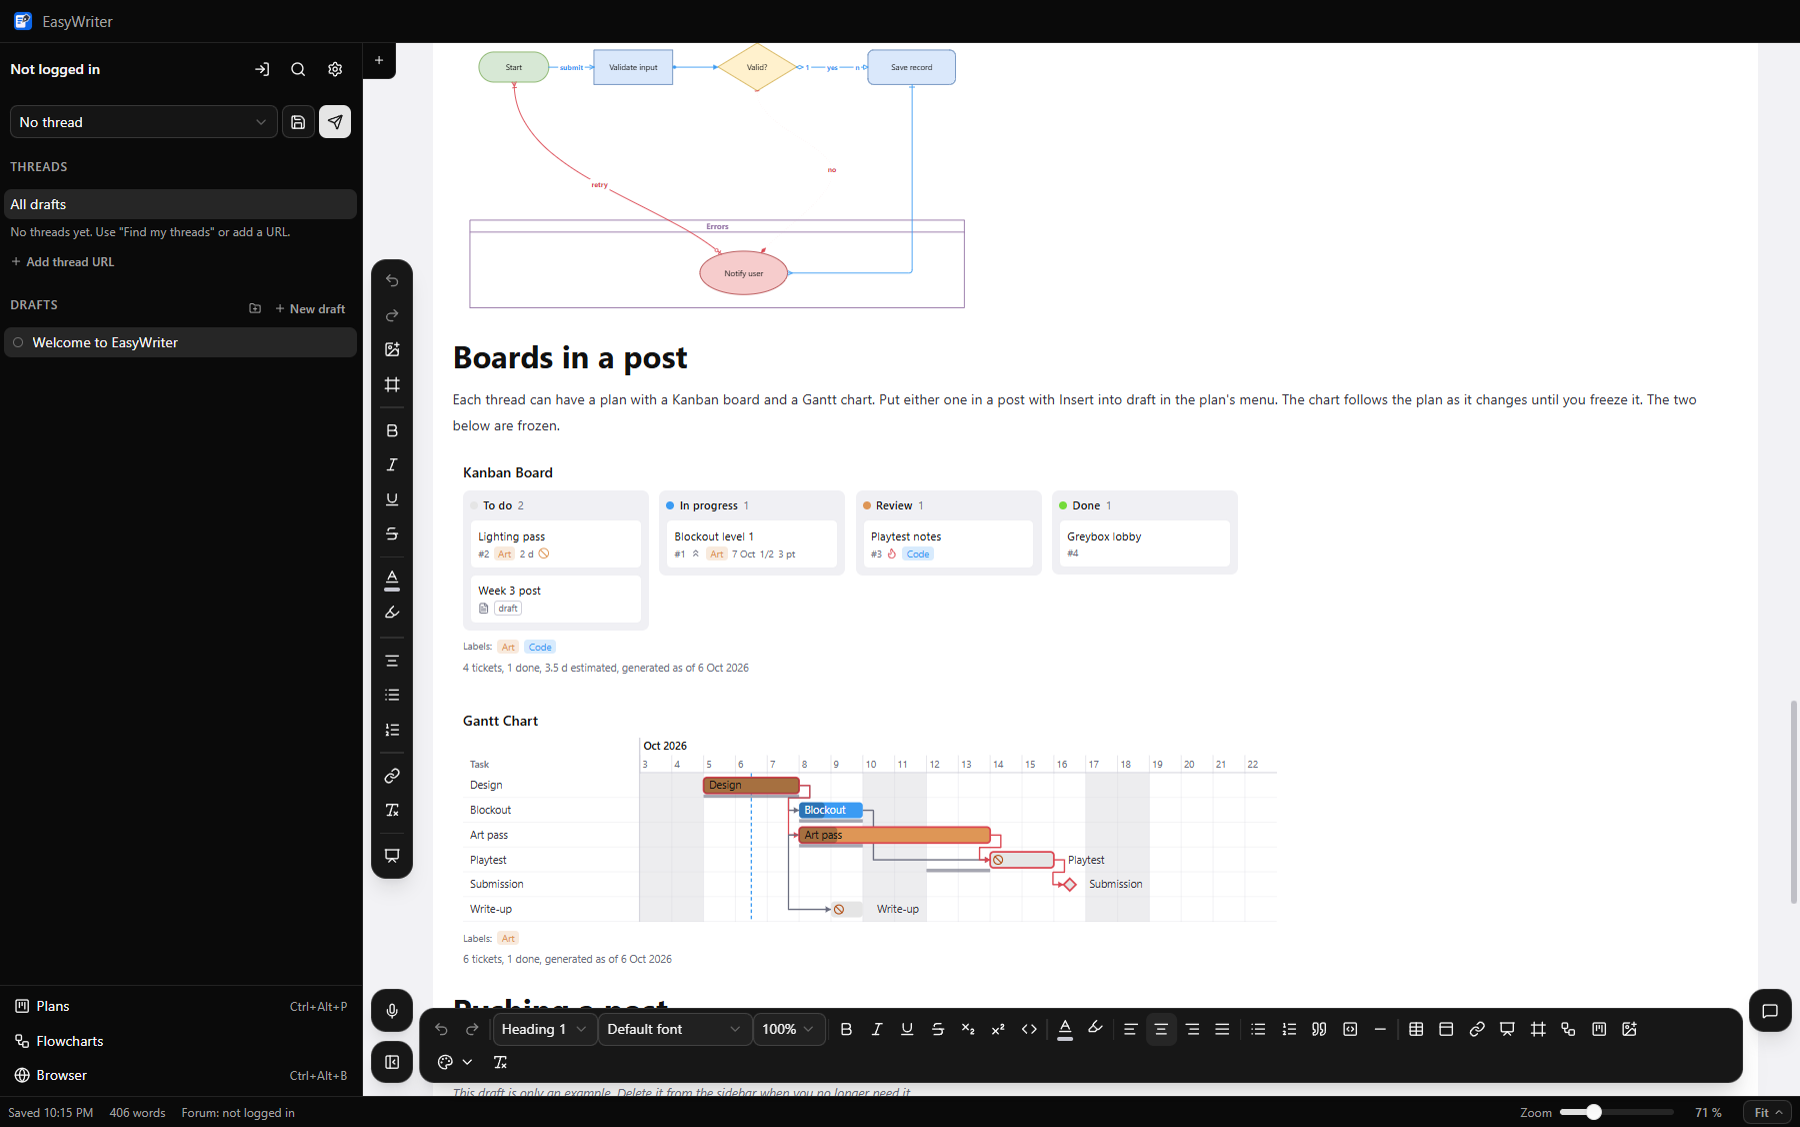
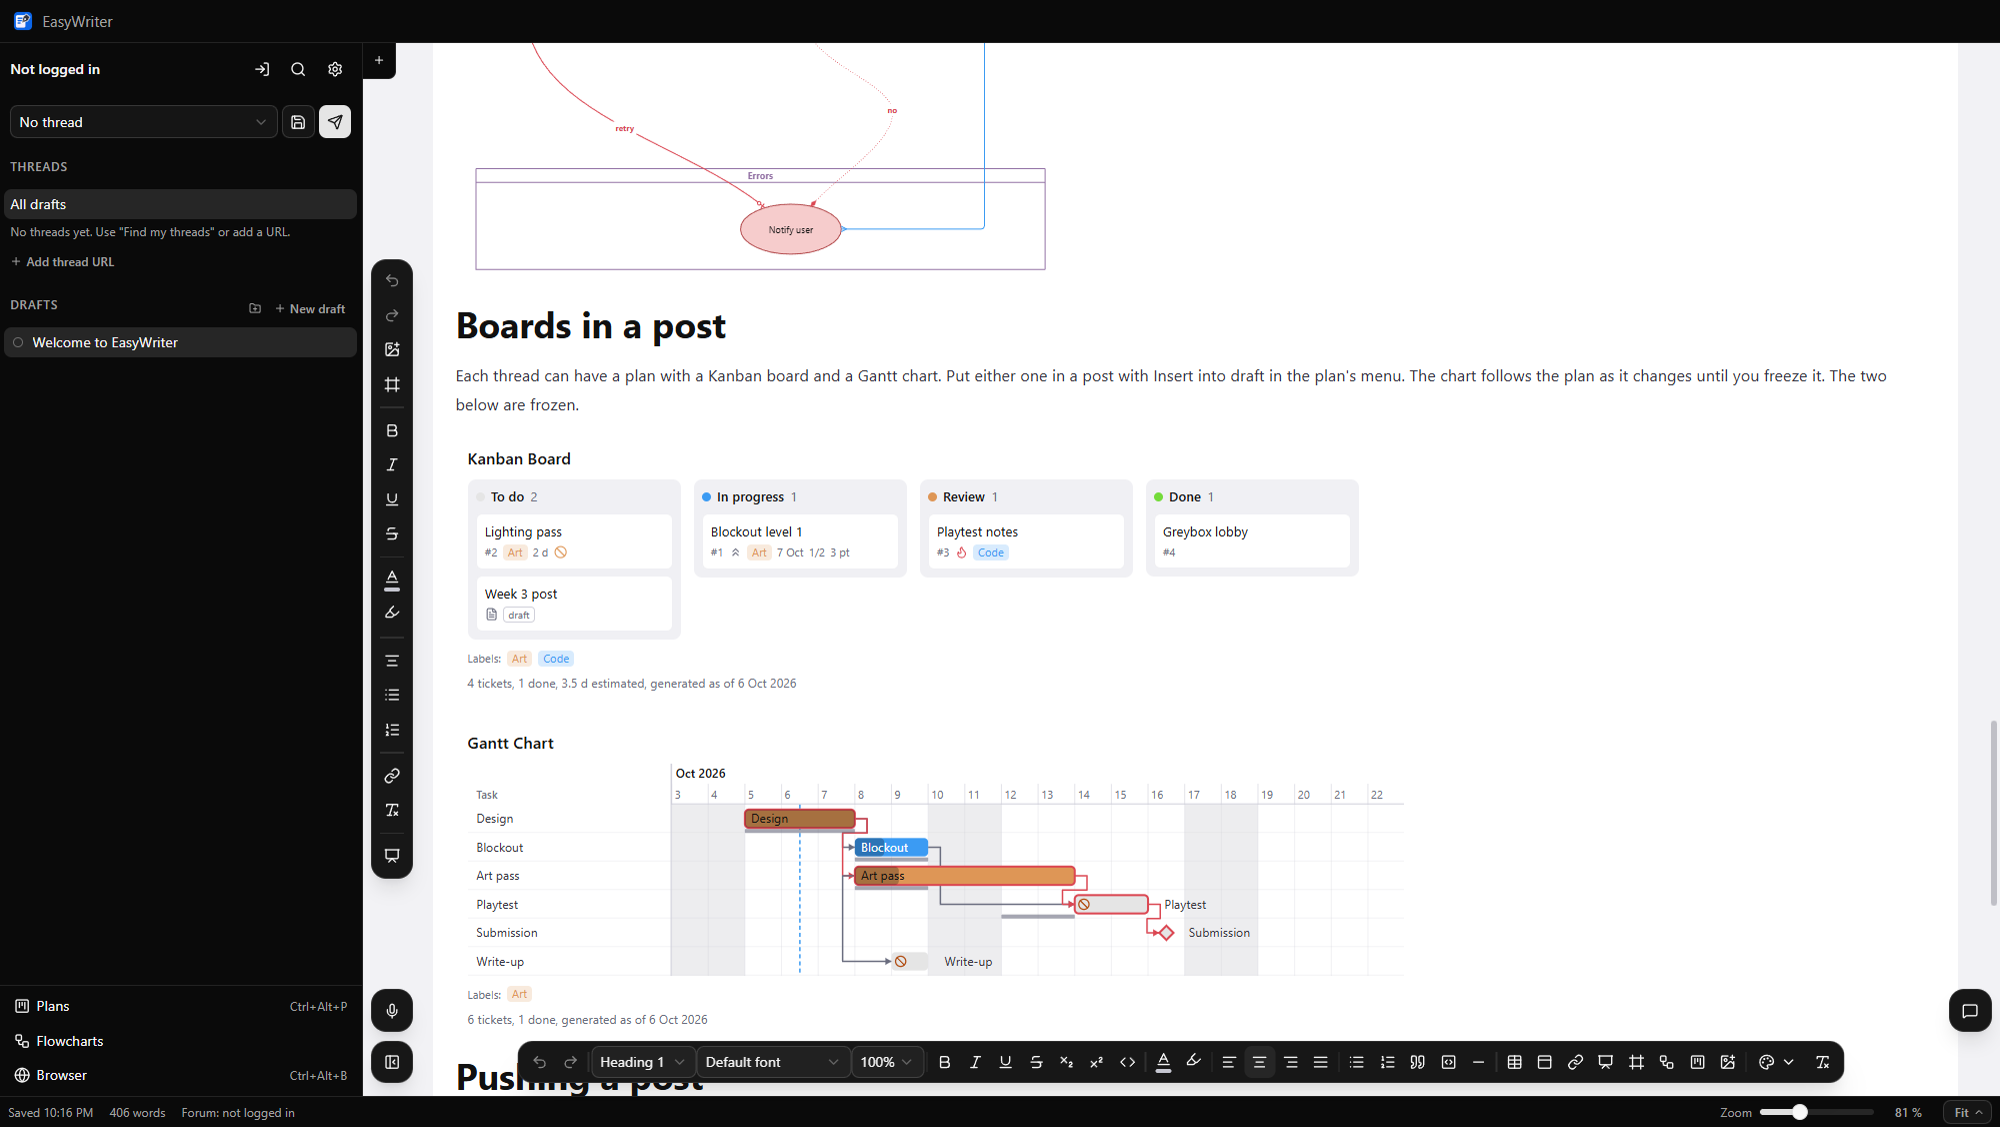
Screenshots at 1600x900 so the toolbar fits on one row

diff --git a/main.js b/main.js
@@ -747,12 +747,12 @@ function runSmoke(win) {
 
 // --script=<file>: window.__agent.script(steps) once the app has started; per-step {req, res, pass} into smoke-agent.json;
 // exit 1 when a step fails its expect. Drafts persist into the data dir (only __smoke() sets state.smoke).
-// A step {"shot": "<file>.png"} (docs/screenshots.json, npm run shots) saves the 1440 x 900 window as that file: the steps
+// A step {"shot": "<file>.png"} (docs/screenshots.json, npm run shots) saves the 1600 x 900 window as that file: the steps
 // before it run as one script, so "$steps[n]" counts from the last shot. It waits 1 s first, or "wait" ms (a notice fading out).
 async function runScript(win, outDir) {
   const steps = JSON.parse(await fs.readFile(path.resolve(SCRIPT), 'utf8'));
   if (steps.some((s) => s.shot)) { // the window shows inactive, so focusin never fires and the board tools never take over: emulate the focus
-    win.setContentSize(1440, 900);
+    win.setContentSize(1600, 900);
     try { win.webContents.debugger.attach(); } catch {}
     await win.webContents.debugger.sendCommand('Emulation.setFocusEmulationEnabled', { enabled: true });
   }
